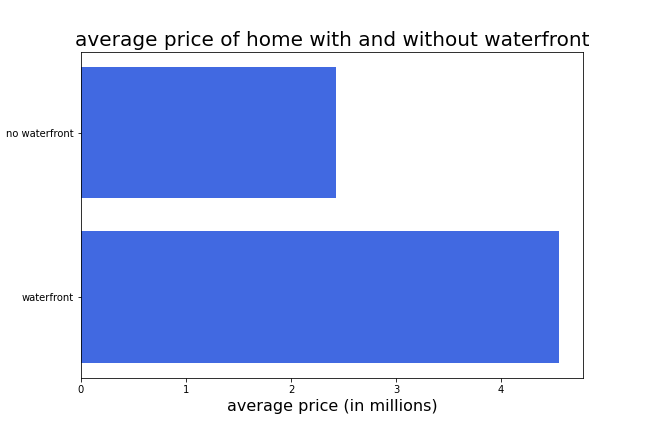
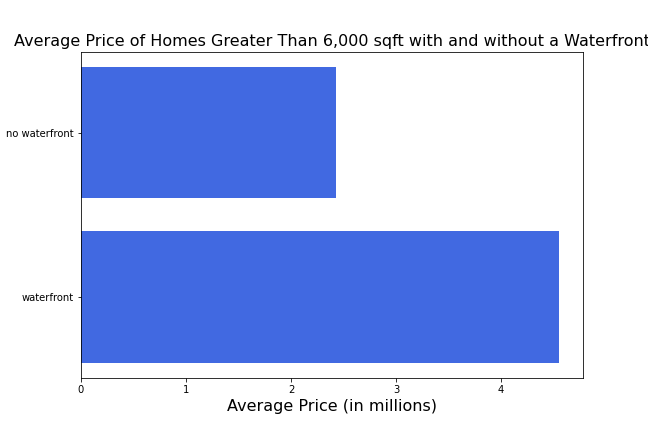
commit pre-Taylor's API

Changed region(s): [[0.0309, 0.0602, 1.0, 0.1204], [0.3395, 0.9028, 0.679, 0.963]]

diff --git a/README.md b/README.md
@@ -47,7 +47,10 @@ Also, the outliers of 11 and 33 bedrooms sold at $520,000 and $640,000 emphasize
 
 ## Sqft_living
 
-### What’s the correlation between sqft_living and pricing and do larger sqft_living greater than 6,000 sqft with a waterfront view cost more or less than those without a waterfront view?
+### What’s the correlation between sqft_living and pricing? 
+
+The data shows that there is a strong positive correlation between the square footage of a home and its price. As homes increase in square feet, the house price increases. 
+![Square Footage vs. Price](output_data/Square_Footage%20vs.%20Price.png)
 
 
 ## Zipcode
@@ -67,6 +70,11 @@ Scatterchart: Waterfront Bedrooms vs. Prices clearly shows for houses having the
 Boxplot: Waterfront(Non-waterfront) vs. Price shows median, upper quartile, lower quartile, upper extreme and lower extreme for both waterfront and non-waterfront houses.
 ![ Waterfront(Non-waterfront) vs  Price boxplot](https://user-images.githubusercontent.com/100645924/164123777-04189a10-2539-4b5f-88f2-028469361489.png)
 
+### Do larger sqft_living greater than 6,000 sqft with a waterfront view cost more or less than those without a waterfront view?
+
+For houses over 6,000 sqft, there is a significant difference in price. On average, these larger houses with a waterfront cost about 2.5 million dollars more than those without a waterfront. 
+
+![Average Prices of Homes Greater than 6,000 sqft with and without Waterfronts vs. Price](output_data/Average%20Prices%20of%20Homes%20Greater%20than%206,000%20sqft%20with%20and%20without%20Waterfronts.png)
 
 ## Year house was built
 
